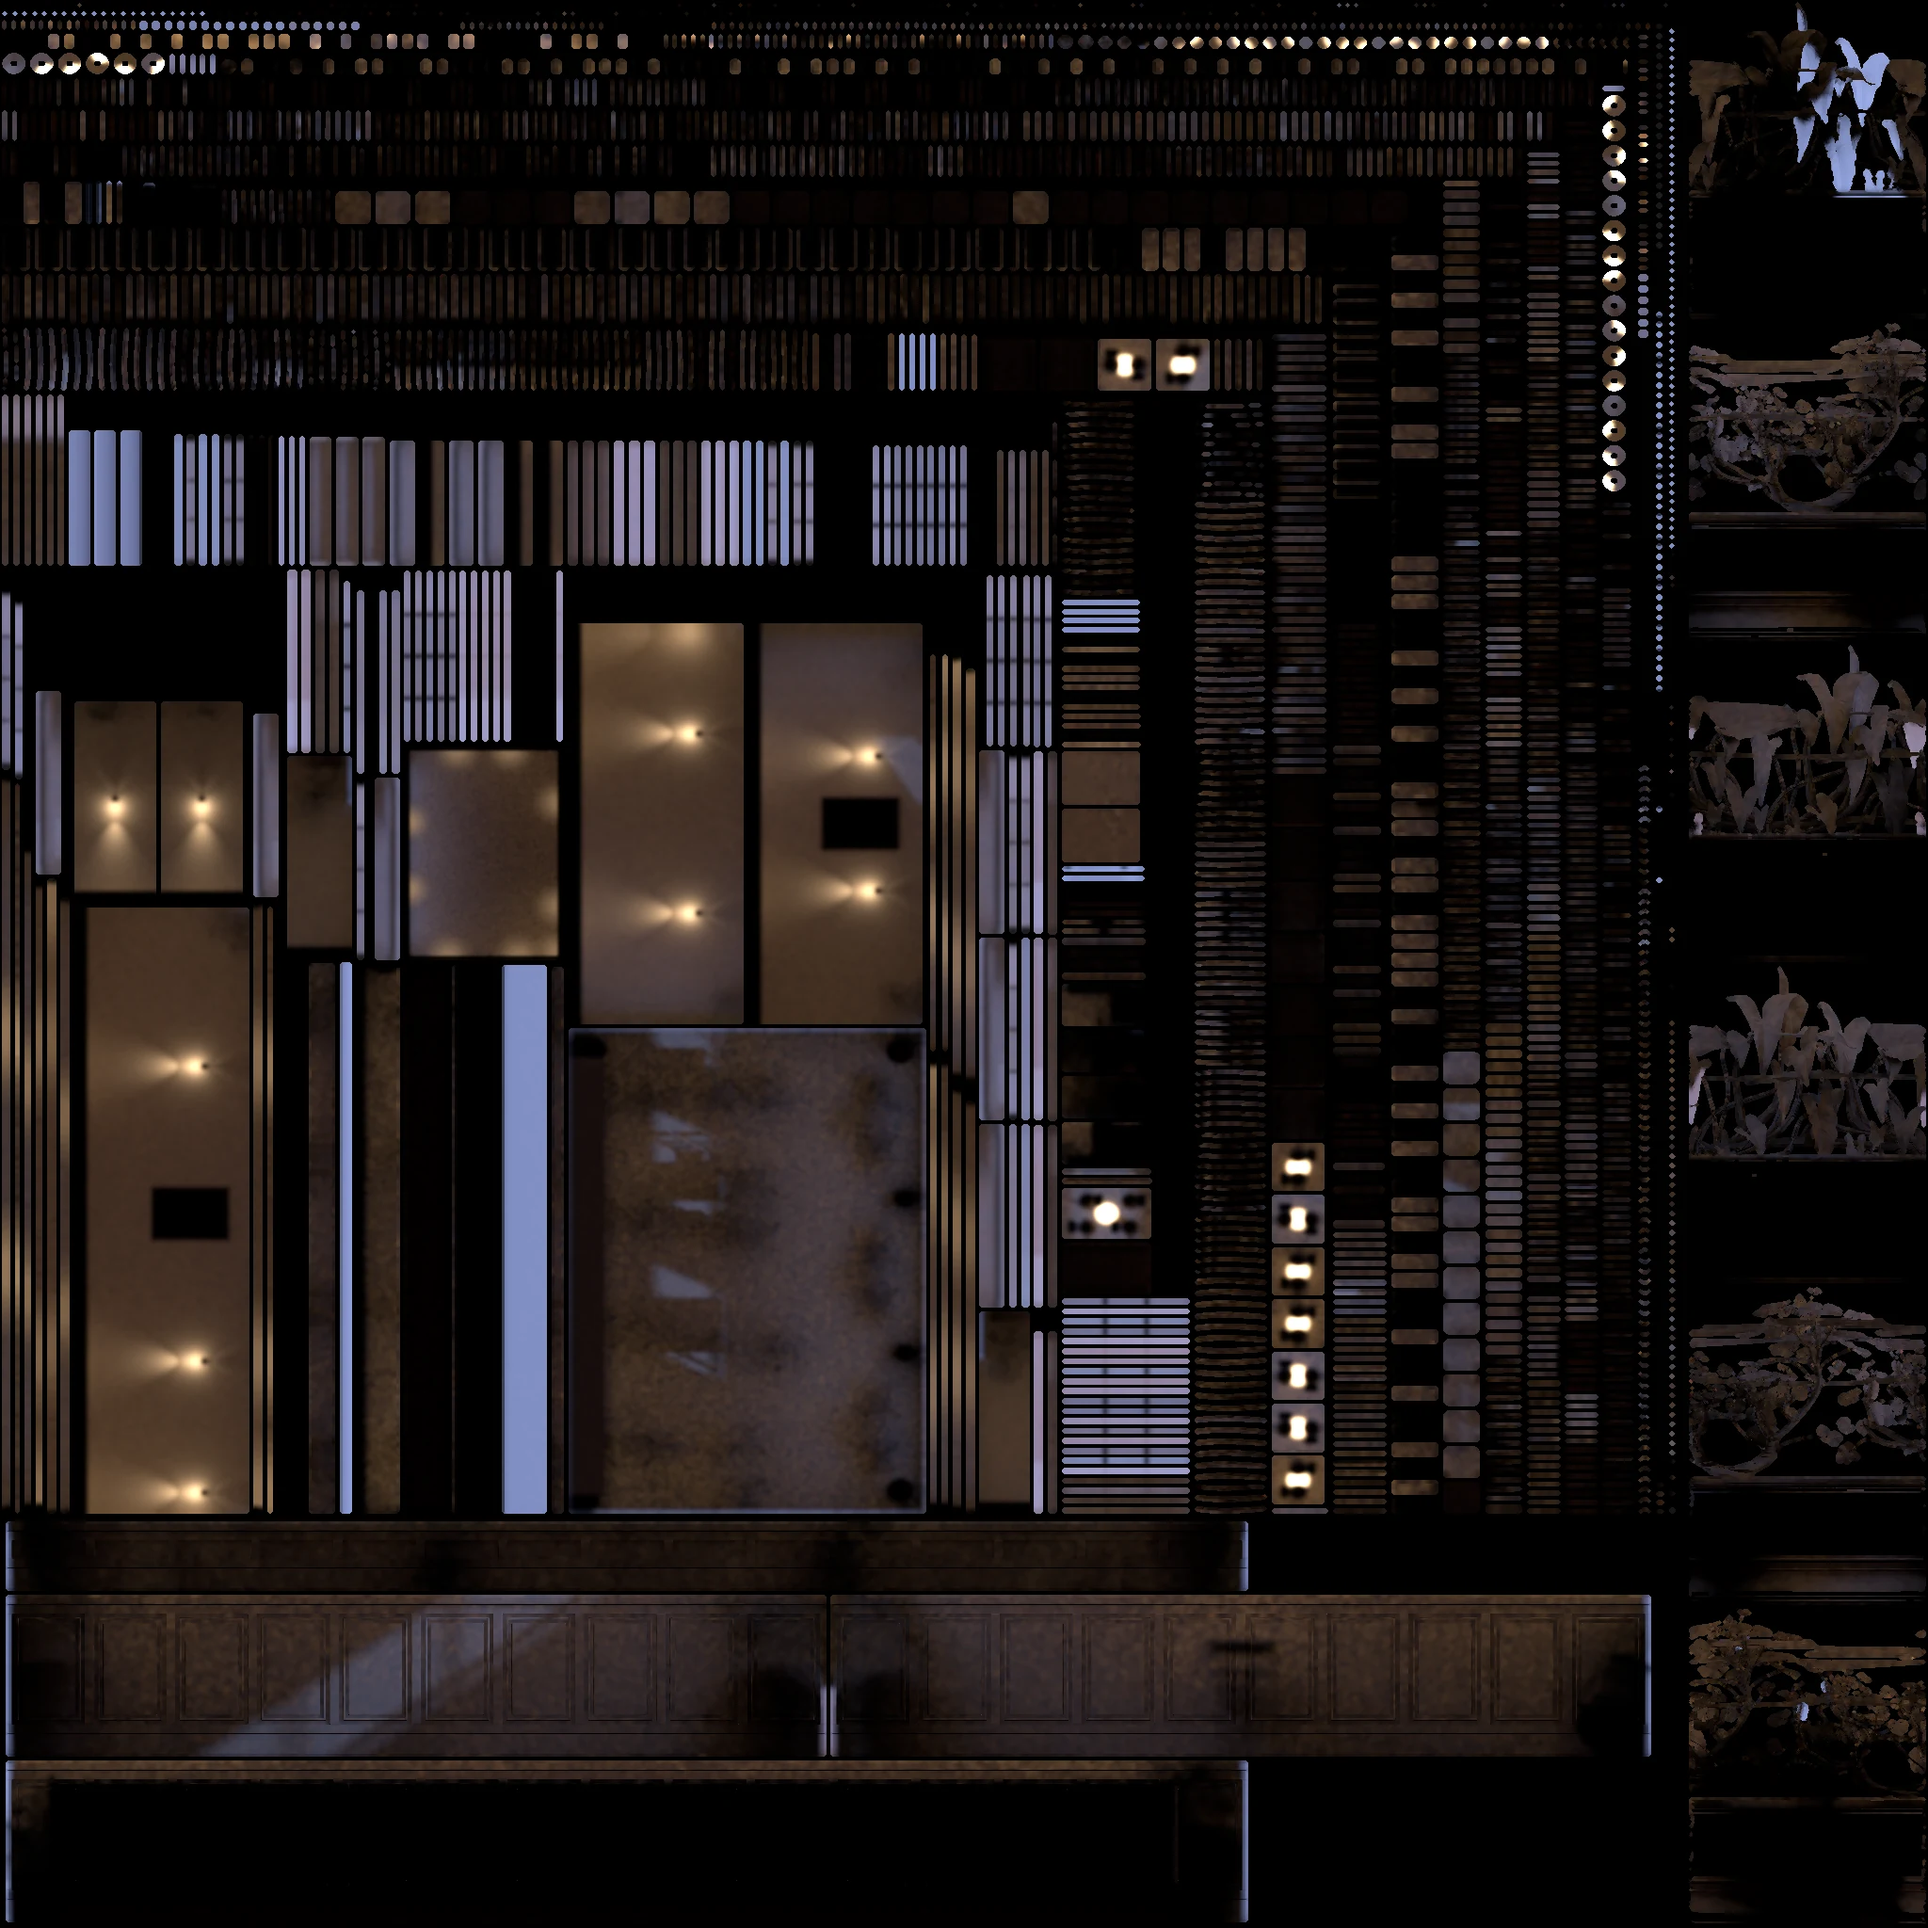
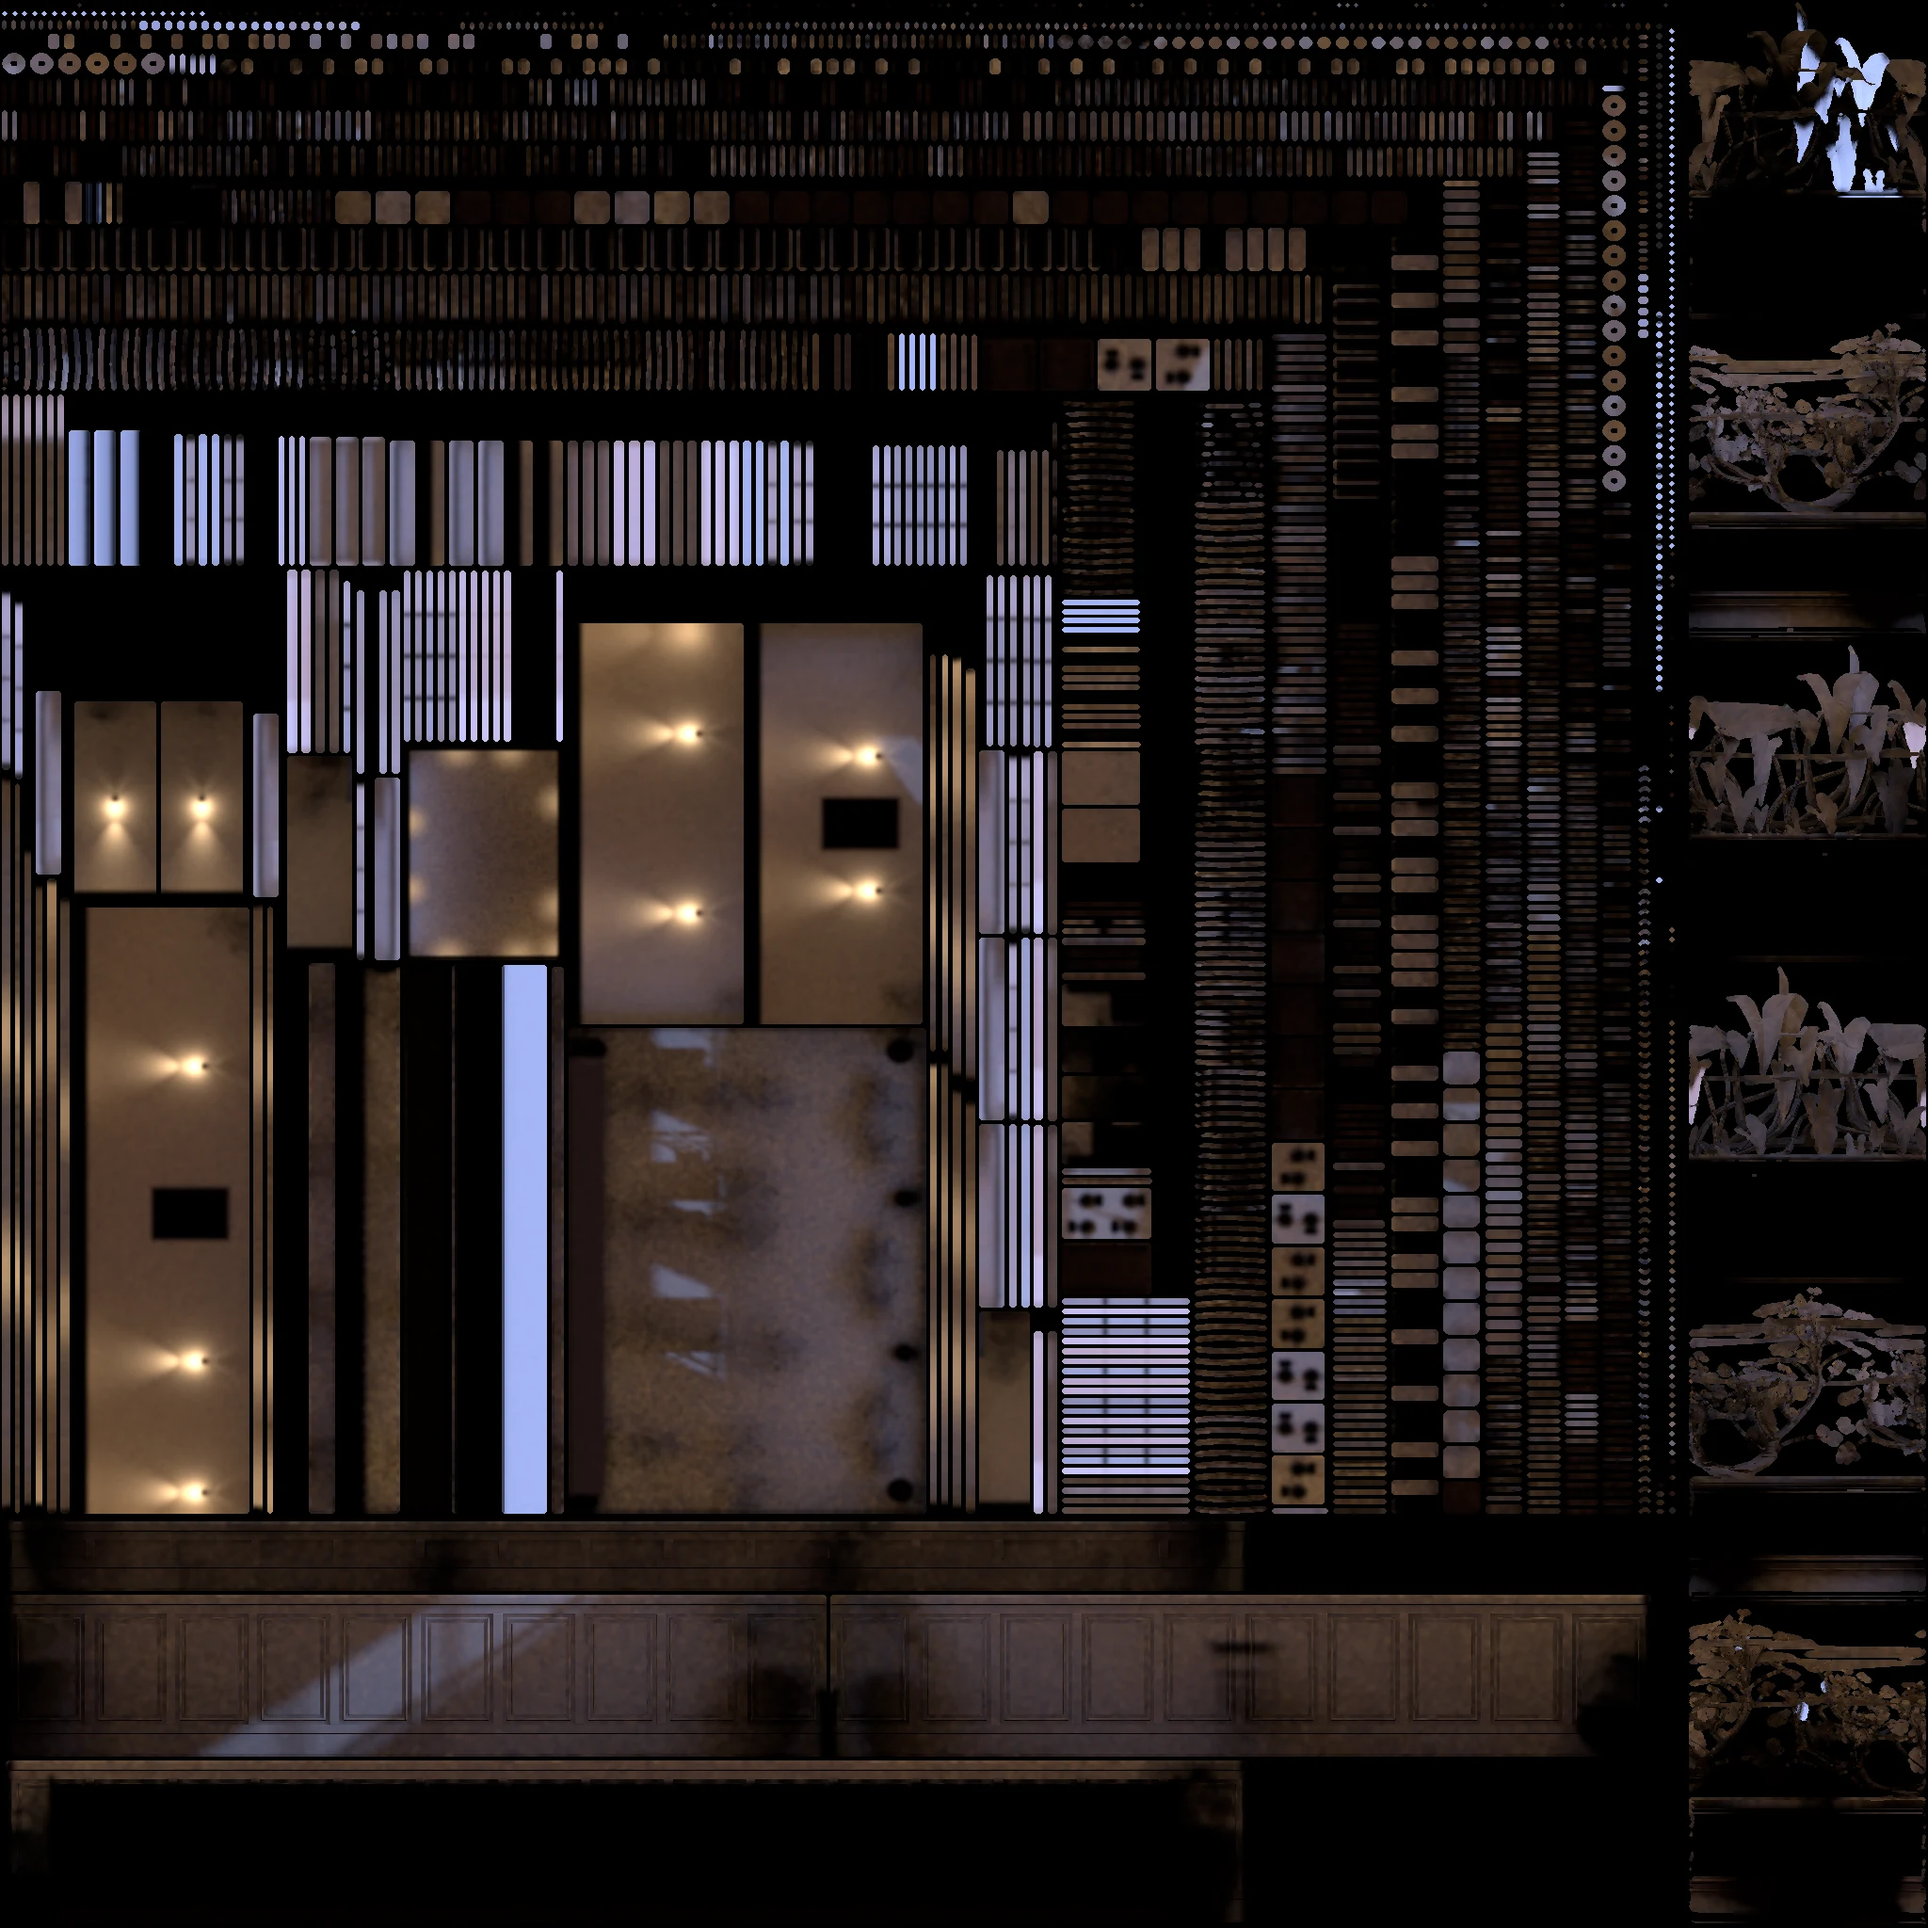
Split the room's background lamps into layers that follow the switch
The tables' light was baked into each mode's map, so it stayed when the lamp
was off. The base maps now bake without the lamps and two white lamp layers
are added in the shader, following the switch, level and colour temperature.

diff --git a/src/three/scene/room.ts b/src/three/scene/room.ts
@@ -34,14 +34,18 @@ const ROOM_ALBEDO: Record<string, [string | null, [number, number, number]?]> = 
 
 // what isn't lightmapped, per mode (before exposure): the street outside, the sheer curtains it backlights, the
 // sconces' frosted glass (and the black 'void' behind the wainscot, which stays black)
-export const ROOM_FX: Record<Mode, { view: number; curtain: number; glass: number }> = {
-  gunduz: { view: 1, curtain: 0.6, glass: 1.2 },
-  aksam: { view: 0.45, curtain: 0.04, glass: 2.5 },
-  gece: { view: 0.32, curtain: 0.035, glass: 2.5 },
+// `lamps`: the background lamps' power relative to the evening. The day gain is 12, so they bake a twelfth as strong.
+export const ROOM_FX: Record<Mode, { view: number; curtain: number; glass: number; lamps: number }> = {
+  gunduz: { view: 1, curtain: 0.6, glass: 1.2, lamps: 0.0875 },
+  aksam: { view: 0.45, curtain: 0.04, glass: 2.5, lamps: 1 },
+  gece: { view: 0.32, curtain: 0.035, glass: 2.5, lamps: 1 },
 };
 
+// How much of each lamp layer a fabric-shaded lamp gives, fitted against the earlier bake that had the lamps inside
+export const ROOM_LAMP_MIX = { down: 0.93, up: 0.06 };
+
 export interface RoomMeta {
-  lightmap: Record<Mode, number>;
+  lightmap: Record<Mode | "lamp-down" | "lamp-up", number>;
   gain?: Partial<Record<Mode, number>>;
   tables: [number, number][];
 }
@@ -54,10 +58,34 @@ export interface RoomData {
   lm: Partial<Record<Mode, THREE.Texture>>;
   view: Partial<Record<Mode, THREE.Texture>>;
   perMode: (m: Mode) => Promise<void>;
+  lampLight: { down: THREE.Color; up: THREE.Color };
 }
 
 let roomLoad: Promise<RoomData> | null = null;
 export let roomData: RoomData | null = null;
+
+// The background lamps follow the product's switch, level and colour, so their light is added to the mode's map at
+// draw time: two more fetches per pixel, no lights.
+const lampUniforms = {
+  lampDown: { value: null as THREE.Texture | null },
+  lampUp: { value: null as THREE.Texture | null },
+  lampDownLight: { value: new THREE.Color(0, 0, 0) },
+  lampUpLight: { value: new THREE.Color(0, 0, 0) },
+};
+
+function addLampLayers(shader: Parameters<THREE.Material["onBeforeCompile"]>[0]) {
+  Object.assign(shader.uniforms, lampUniforms);
+  shader.fragmentShader = shader.fragmentShader
+    .replace("#include <common>", "#include <common>\nuniform sampler2D lampDown, lampUp;\nuniform vec3 lampDownLight, lampUpLight;")
+    .replace(
+      "reflectedLight.indirectDiffuse += lightMapTexel.rgb * lightMapIntensity * RECIPROCAL_PI;",
+      // the layers are stored as square roots (encode.py): their faint bounce would not survive 8 bits otherwise
+      `reflectedLight.indirectDiffuse += lightMapTexel.rgb * lightMapIntensity * RECIPROCAL_PI;
+      vec3 lampD = texture2D(lampDown, vLightMapUv).rgb;
+      vec3 lampU = texture2D(lampUp, vLightMapUv).rgb;
+      reflectedLight.indirectDiffuse += lampD * lampD * lampDownLight + lampU * lampU * lampUpLight;`,
+    );
+}
 
 function roomTex(name: string, srgb = true) {
   return new THREE.TextureLoader().loadAsync(`${ROOM_URL}${name}-${ROOM_RES}.webp`).then((t) => {
@@ -78,24 +106,32 @@ export function loadRoom(mode: Mode): Promise<RoomData> {
     const view: RoomData["view"] = {};
     const pending: Partial<Record<Mode, Promise<void>>> = {};
     // per-mode maps: the current mode's first, the others right after (a switch then finds them loaded)
-    const perMode = (m: Mode) =>
-      (pending[m] ||= Promise.all([roomTex(`lm-${m}`), roomTex(`view-${m}`)]).then(([l, v]) => {
+    // the atlas's islands sit a few texels apart: smaller mips would blend neighbours (light is smooth anyway)
+    const atlasTex = (name: string) =>
+      roomTex(name).then((l) => {
         l.channel = 1;
         l.wrapS = l.wrapT = THREE.ClampToEdgeWrapping;
-        v.wrapS = v.wrapT = THREE.ClampToEdgeWrapping;
-        // the atlas's islands sit a few texels apart: smaller mips would blend neighbours (light is smooth anyway)
         l.generateMipmaps = false;
         l.minFilter = THREE.LinearFilter;
+        return l;
+      });
+    const perMode = (m: Mode) =>
+      (pending[m] ||= Promise.all([atlasTex(`lm-${m}`), roomTex(`view-${m}`)]).then(([l, v]) => {
+        v.wrapS = v.wrapT = THREE.ClampToEdgeWrapping;
         lm[m] = l;
         view[m] = v;
       }));
-    const [gltf, meta, texs] = await Promise.all([
+    const [gltf, meta, texs, lampDown, lampUp] = await Promise.all([
       new GLTFLoader().setDRACOLoader(draco).loadAsync(`${ROOM_URL}room.glb`),
       fetch(`${ROOM_URL}room.json`).then((r) => r.json() as Promise<RoomMeta>),
       Promise.all(names.map((n) => roomTex(n))),
+      atlasTex("lm-lamp-down"),
+      atlasTex("lm-lamp-up"),
       perMode(mode),
     ]);
     draco.dispose();
+    lampUniforms.lampDown.value = lampDown;
+    lampUniforms.lampUp.value = lampUp;
     const tex = Object.fromEntries(names.map((n, i) => [n, texs[i]]));
     const mats: Record<string, THREE.MeshBasicMaterial> = {};
     const fx: Record<string, THREE.MeshBasicMaterial> = {};
@@ -112,6 +148,7 @@ export function loadRoom(mode: Mode): Promise<RoomData> {
           lightMap: lm[mode],
           color: c ? new THREE.Color().setRGB(...c, THREE.LinearSRGBColorSpace) : 0xffffff,
         });
+        mats[key].onBeforeCompile = addLampLayers;
       } else {
         // 'void': the black board behind the wainscot (build.py)
         o.material = fx[key] ||= new THREE.MeshBasicMaterial({
@@ -129,7 +166,16 @@ export function loadRoom(mode: Mode): Promise<RoomData> {
       perMode(m).catch(() => {
         delete pending[m];
       });
-    return (roomData = { group: gltf.scene, meta, mats: Object.values(mats), fx, lm, view, perMode });
+    return (roomData = {
+      group: gltf.scene,
+      meta,
+      mats: Object.values(mats),
+      fx,
+      lm,
+      view,
+      perMode,
+      lampLight: { down: lampUniforms.lampDownLight.value, up: lampUniforms.lampUpLight.value },
+    });
   })().catch((err) => {
     roomLoad = null;
     throw err;

diff --git a/src/three/Viewer.ts b/src/three/Viewer.ts
@@ -19,7 +19,7 @@ import type { Mode } from "./models";
 import { CLAMP, KNEE } from "./passes";
 import { KIT_OUTPUT, kitLamp } from "./scene/lamps";
 import { buildLuminaireScene } from "./scene/luminaire";
-import { ROOM_FX, loadRoom, preloadRoom, type RoomData } from "./scene/room";
+import { ROOM_FX, ROOM_LAMP_MIX, loadRoom, preloadRoom, type RoomData } from "./scene/room";
 import { buildTableScene } from "./scene/table";
 import type { Tableware } from "./scene/tableware";
 import type { Variant, ViewerModel, ViewerState } from "./types";
@@ -404,7 +404,7 @@ export class Viewer {
   }
 
   // Every background table gets a copy of the lamp, following the main lamp's switch, level and colour temperature.
-  // Their light on the tables and the banquette is in the bake (a generic shaded lamp, always lit): the copies only glow.
+  // The copies only glow: their light on the tables and the banquette comes from the room's lamp layers (applyRoom).
   attachRoom(R: RoomData) {
     for (const o of this.placeholder) {
       o.removeFromParent();
@@ -454,6 +454,11 @@ export class Viewer {
       lamp.setFinish(wood);
       lamp.setLight(KIT_OUTPUT * f, pos, lc);
     });
+    // the same lamps' light in the room: the baked 2700 K colour at 2700 K, shifted as the UI's colour shifts
+    const power = (R.meta.gain?.[key] ?? 1) * fx.lamps * (f / LAMP);
+    const tint = new THREE.Color().setRGB(lc.r / warm.r, (0.64 * lc.g) / warm.g, (0.34 * lc.b) / warm.b, THREE.LinearSRGBColorSpace);
+    R.lampLight.down.copy(tint).multiplyScalar(R.meta.lightmap["lamp-down"] * ROOM_LAMP_MIX.down * power);
+    R.lampLight.up.copy(tint).multiplyScalar(R.meta.lightmap["lamp-up"] * ROOM_LAMP_MIX.up * power);
   }
 
   // Programs depend on the target they draw into: the scene is only ever drawn into linear render targets
